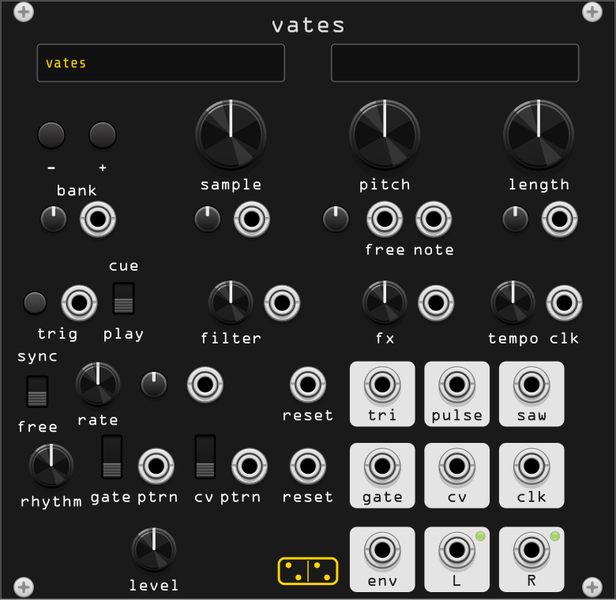
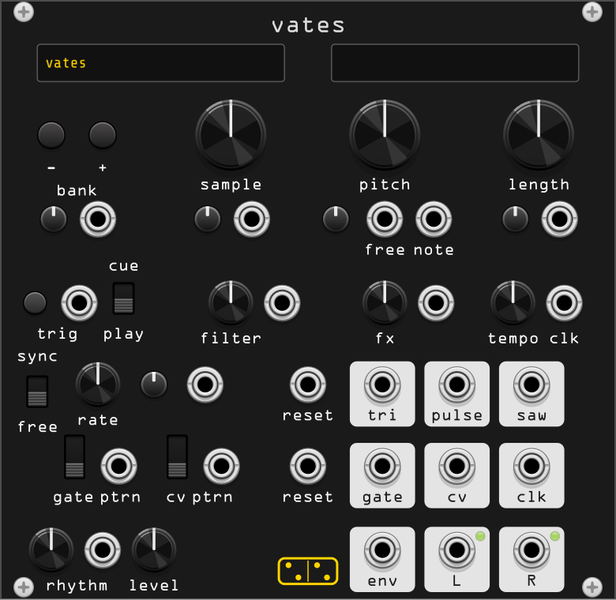
feat(vates): rhythm moves to the last row and takes CV
The rhythm knob sits beside level now, with a CV input of its own on the same
ten-volts-is-the-whole-list scale as bank and sample, wrapping past the end —
so a ramp or a random voltage walks the 32 patterns. The pattern switches
spread left into the room it left.

Note that selecting a rhythm reloads it, which discards whatever the two
switches have written into the working pattern; the checks give the CV its
own module for that reason.

Changed region(s): [[0.0308, 0.72, 0.4318, 0.93], [0.0617, 0.87, 0.2159, 0.99]]

diff --git a/src/vates.cpp b/src/vates.cpp
@@ -173,6 +173,7 @@ struct Vates : Module {
 		G_INPUT,
 		C_INPUT,
 		PAT_RESET_INPUT,
+		RHYTHM_INPUT,
 		INPUTS_LEN
 	};
 	enum OutputId {
@@ -358,6 +359,7 @@ struct Vates : Module {
 		configInput(G_INPUT, "Gate pattern modifier");
 		configInput(C_INPUT, "CV pattern modifier");
 		configInput(PAT_RESET_INPUT, "Pattern reset");
+		configInput(RHYTHM_INPUT, "Rhythm select");
 
 		configOutput(ENV_OUTPUT, "Envelope");
 		configOutput(TRI_OUTPUT, "LFO triangle");
@@ -786,7 +788,11 @@ struct Vates : Module {
 		}
 
 		// ── pattern generator ────────────────────────────────────────────────
+		// the knob spans the 32 rhythms and the CV offsets it, wrapping, on
+		// the same ten-volts-is-the-whole-list scale as bank and sample
 		int rhythm = (int)std::round(params[RHYTHM_PARAM].getValue());
+		if (inputs[RHYTHM_INPUT].isConnected())
+			rhythm = cvSelect(rhythm, inputs[RHYTHM_INPUT].getVoltage(), 1.f, 32);
 		if (rhythm != loadedRhythm) {
 			loadedRhythm = rhythm;
 			gateWork = rhythmPattern(rhythm);
@@ -1242,6 +1248,7 @@ struct VatesWidget : ModuleWidget {
 // @elem CSW_PARAM CKSSThree 2.3 param "" 0.0
 // @elem C_INPUT PJ301MPort 4.01 input "" 0.0
 // @elem PAT_RESET_INPUT PJ301MPort 4.01 input "" 0.0
+// @elem RHYTHM_INPUT PJ301MPort 4.01 input "" 0.0
 // @elem GATE_OUTPUT PJ301MPort 4.01 output "" 0.0
 // @elem CV_OUTPUT PJ301MPort 4.01 output "" 0.0
 // @elem CLK_OUTPUT PJ301MPort 4.01 output "" 0.0
@@ -1277,9 +1284,9 @@ struct VatesWidget : ModuleWidget {
 // @elem LABEL_SAW label 0.0 label "saw" 0.0 114.00 90.00
 // @elem LABEL_TEMPO label 0.0 label "tempo" 0.0 110.00 73.50
 // @elem LABEL_CLK label 0.0 label "clk" 0.0 121.00 73.50
-// @elem LABEL_RHYTHM label 0.0 label "rhythm" 0.0 11.00 108.50
-// @elem LABEL_G label 0.0 label "gate ptrn" 0.0 28.75 107.50
-// @elem LABEL_C label 0.0 label "cv ptrn" 0.0 48.75 107.50
+// @elem LABEL_RHYTHM label 0.0 label "rhythm" 0.0 16.50 126.50
+// @elem LABEL_G label 0.0 label "gate ptrn" 0.0 20.75 107.50
+// @elem LABEL_C label 0.0 label "cv ptrn" 0.0 42.75 107.50
 // @elem LABEL_PAT_RESET label 0.0 label "reset" 0.0 66.04 107.50
 // @elem BOX_GATE panel_box 7.0 box "" 0.0 82.00 102.00
 // @elem LABEL_GATE label 0.0 label "gate" 0.0 82.00 107.50
@@ -1330,12 +1337,13 @@ struct VatesWidget : ModuleWidget {
         addOutput(createOutputCentered<PJ301MPort>(mm2px(Vec(114.00f, 82.50f)), module, Vates::SAW_OUTPUT));
         addParam(createParamCentered<RoundBlackKnob>(mm2px(Vec(110.00f, 65.00f)), module, Vates::TEMPO_PARAM));
         addInput(createInputCentered<PJ301MPort>(mm2px(Vec(121.00f, 65.00f)), module, Vates::CLK_INPUT));
-        addParam(createParamCentered<RoundBlackKnob>(mm2px(Vec(11.00f, 100.00f)), module, Vates::RHYTHM_PARAM));
-        addParam(createParamCentered<CKSSThree>(mm2px(Vec(24.00f, 98.00f)), module, Vates::GSW_PARAM));
-        addInput(createInputCentered<PJ301MPort>(mm2px(Vec(33.50f, 100.00f)), module, Vates::G_INPUT));
-        addParam(createParamCentered<CKSSThree>(mm2px(Vec(44.00f, 98.00f)), module, Vates::CSW_PARAM));
-        addInput(createInputCentered<PJ301MPort>(mm2px(Vec(53.50f, 100.00f)), module, Vates::C_INPUT));
+        addParam(createParamCentered<RoundBlackKnob>(mm2px(Vec(11.00f, 118.00f)), module, Vates::RHYTHM_PARAM));
+        addParam(createParamCentered<CKSSThree>(mm2px(Vec(16.00f, 98.00f)), module, Vates::GSW_PARAM));
+        addInput(createInputCentered<PJ301MPort>(mm2px(Vec(25.50f, 100.00f)), module, Vates::G_INPUT));
+        addParam(createParamCentered<CKSSThree>(mm2px(Vec(38.00f, 98.00f)), module, Vates::CSW_PARAM));
+        addInput(createInputCentered<PJ301MPort>(mm2px(Vec(47.50f, 100.00f)), module, Vates::C_INPUT));
         addInput(createInputCentered<PJ301MPort>(mm2px(Vec(66.04f, 100.00f)), module, Vates::PAT_RESET_INPUT));
+        addInput(createInputCentered<PJ301MPort>(mm2px(Vec(22.00f, 118.00f)), module, Vates::RHYTHM_INPUT));
         addOutput(createOutputCentered<PJ301MPort>(mm2px(Vec(82.00f, 100.00f)), module, Vates::GATE_OUTPUT));
         addOutput(createOutputCentered<PJ301MPort>(mm2px(Vec(98.00f, 100.00f)), module, Vates::CV_OUTPUT));
         addOutput(createOutputCentered<PJ301MPort>(mm2px(Vec(114.00f, 100.00f)), module, Vates::CLK_OUTPUT));

diff --git a/test/smoke_vates.cpp b/test/smoke_vates.cpp
@@ -636,6 +636,35 @@ static void testPitchTracking() {
 	       std::fabs(m.voiceRateNow() - 8.f) < 1e-4f);
 }
 
+// ── the rhythm CV picks patterns ──────────────────────────────────────────────
+// Same ten-volts-is-the-whole-list scale as bank and sample, offsetting the
+// knob and wrapping past the end. Its own module: selecting a rhythm reloads
+// the working pattern, so this must not run after the switches have edited
+// one.
+static void testRhythmCv() {
+	Vates m;
+	long fr = 0;
+	m.params[Vates::TEMPO_PARAM].setValue(240.f);
+	m.params[Vates::RHYTHM_PARAM].setValue(0.f);
+	m.inputs[Vates::RHYTHM_INPUT].channels = 1;
+	m.inputs[Vates::RHYTHM_INPUT].setVoltage(0.f);
+	run(m, fr, 0.2);
+	report("vates", "rhythm_cv_zero", m.gateWork, m.gateWork == 0x8888);
+
+	m.inputs[Vates::RHYTHM_INPUT].setVoltage(10.f);   // the last of the 32
+	run(m, fr, 0.2);
+	report("vates", "rhythm_cv_top", m.gateWork, m.gateWork == 0xFFFF);
+
+	m.inputs[Vates::RHYTHM_INPUT].setVoltage(5.f);    // halfway: "funk"
+	run(m, fr, 0.2);
+	report("vates", "rhythm_cv_middle", m.gateWork, m.gateWork == 0x9632);
+
+	// past the end it wraps: 11 V is 35 patterns on, which is the fourth
+	m.inputs[Vates::RHYTHM_INPUT].setVoltage(11.f);
+	run(m, fr, 0.2);
+	report("vates", "rhythm_cv_wraps", m.gateWork, m.gateWork == 0xAAAA);
+}
+
 // ── the pattern inputs read the Rack window, and the hardware one on ask ─────
 // A gate source resting at 0 V must mean "leave the pattern alone". Under the
 // hardware's 0-5 V logic the same 0 V means invert, every step, which is what
@@ -823,5 +852,5 @@ static void testAbuse() {
 
 SMOKE_MAIN(testBanks, testLength, testRetrigger, testPlayCue, testKnobBrowsing,
            testKnobRange, testCvRange, testDefaults, testUserKits, testClock,
-           testPatternSwitches, testPatternInputs, testPitchTracking, testSaw, testLfo, testLfoDirection, testToneAbuse,
+           testPatternSwitches, testRhythmCv, testPatternInputs, testPitchTracking, testSaw, testLfo, testLfoDirection, testToneAbuse,
            testAbuse)

diff --git a/doc/vates.md b/doc/vates.md
@@ -193,7 +193,7 @@ a saw outright.
 | **tempo** | internal clock, 30–300 BPM. |
 | **clk in** | external clock. It takes over while it runs; two seconds of silence hands the tempo back to **tempo**. |
 | **clk out** | the clock in use, internal or external. |
-| **rhythm** | selects one of 32 built-in 16-step gate patterns. |
+| **rhythm** | selects one of 32 built-in 16-step gate patterns, with a CV input beside it: ten volts is the whole list, and it wraps past the end. Selecting a rhythm reloads it, discarding what the switches have written into it. |
 | **gate**, **cv** | the pattern's gate (75% of a step) and its stepped CV, 0–10V. |
 | **reset** | restarts both sequences. Patch a slow LFO here to shorten the pattern. |
 | **gate ptrn**, **cv ptrn** | a three-position switch and a jack each: live surgery on the gate and CV sequences. |

diff --git a/CHANGELOG.md b/CHANGELOG.md
@@ -39,7 +39,7 @@ and this project adheres to [Semantic Versioning](http://semver.org/).
 
     Underneath sits the hardware's semi-autonomous half: a 16-step pattern
     generator with **gate** and **cv** outputs, 32 built-in rhythms on a knob
-    in place of the original's web editor, and the two three-position switches
+    (with a CV input of its own) in place of the original's web editor, and the two three-position switches
     that randomize or invert the step the sequence is on — and write it back,
     so a flick changes the pattern for good. Each switch is normalled to a
     jack that does the same job from a voltage: above +1 V randomizes, below
